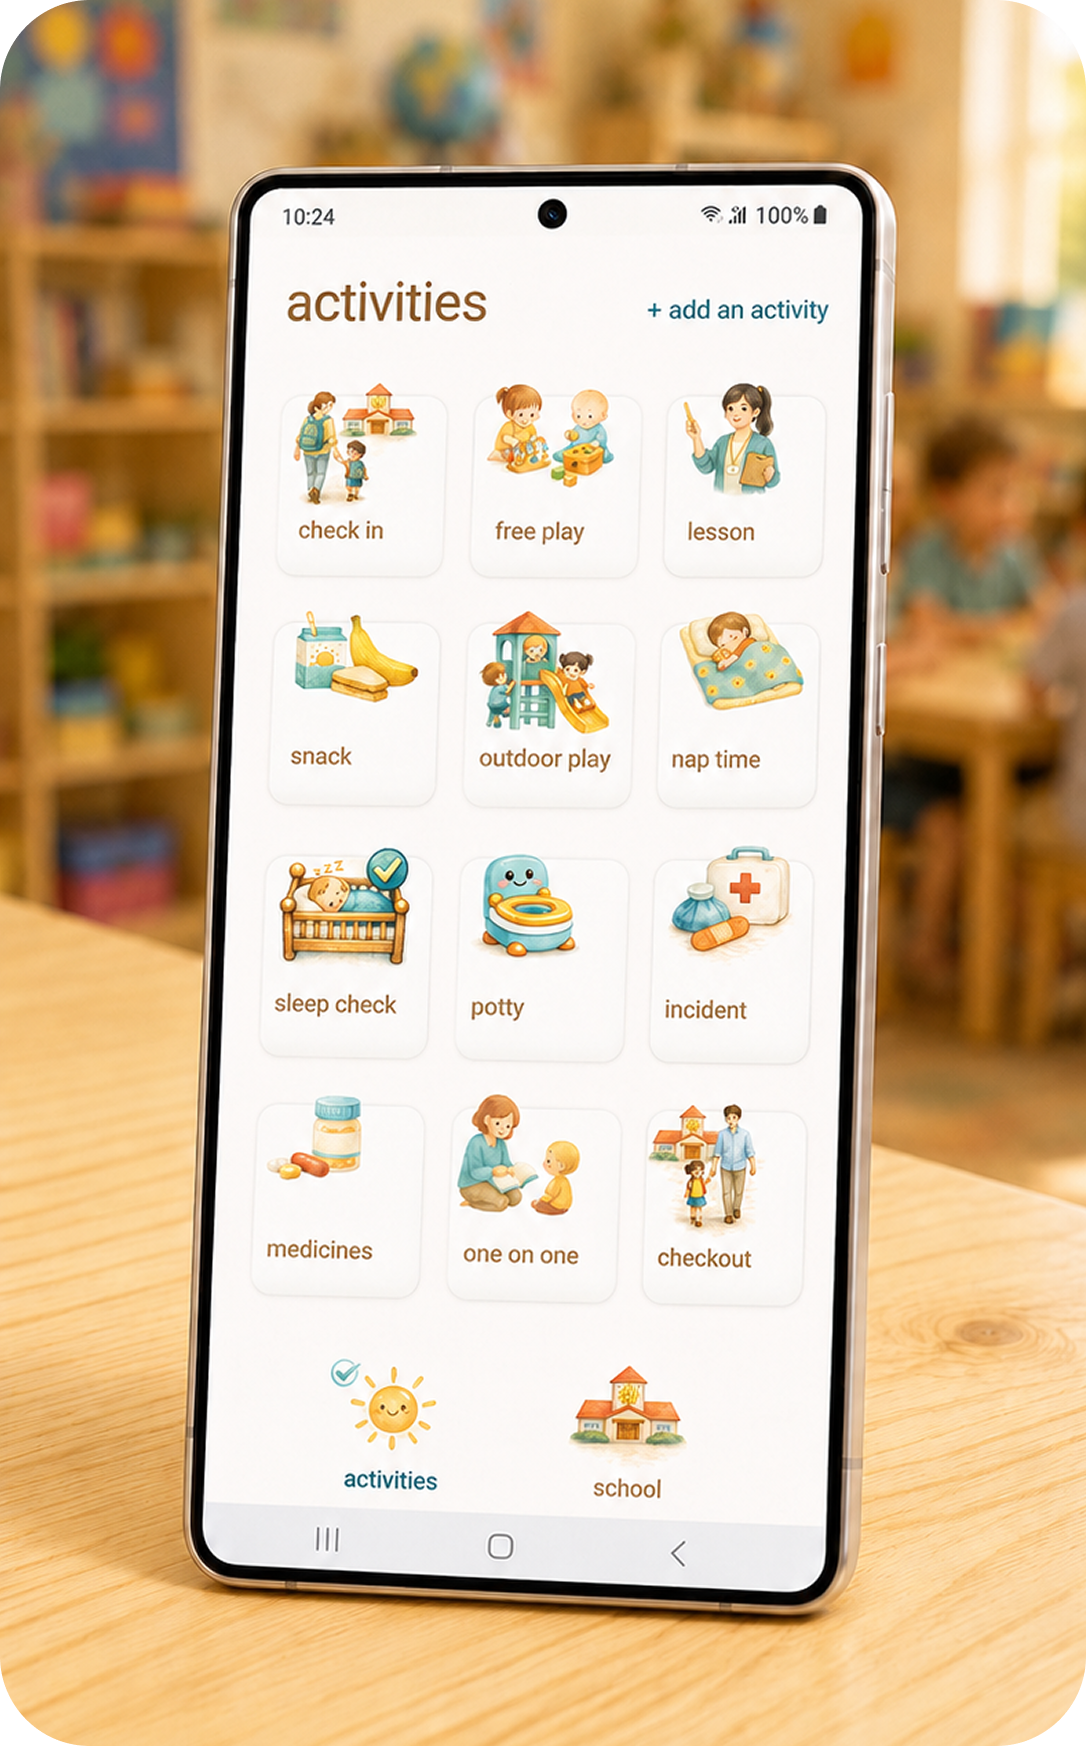
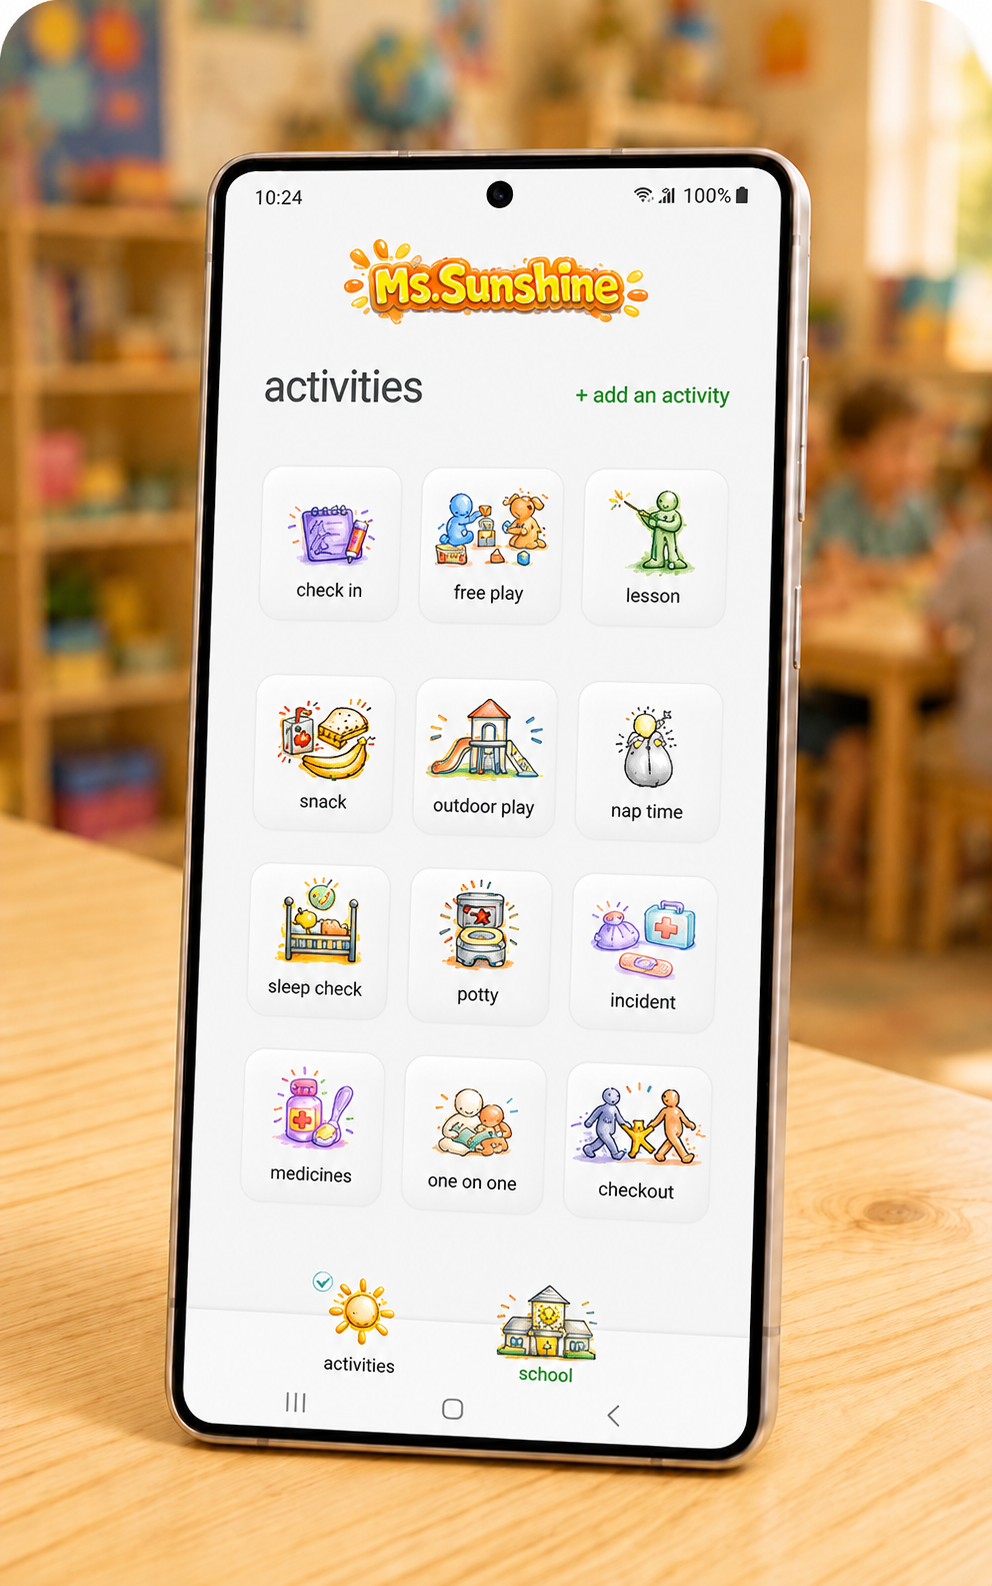
update MsSunshineApp: add carousel title, swap phone images
- Add centered "Initial MVP for UXR" label above ActivityFlowCarousel
- Replace yellow panel phone image with NewHomeScreenV2.png
- Replace Ms. Sunshine App card image with PhoneWithApp_Rollover.png on meta and MsSunshineApp pages

diff --git a/app/work/meta/page.tsx b/app/work/meta/page.tsx
@@ -1,4 +1,5 @@
 import Link from "next/link";
+import phoneWithAppRollover from "@/components/images/Teacher'sApp/PhoneWithApp_Rollover.png";
 import Image from "next/image";
 import NextCaseStudyTicker from "@/components/ui/next-case-study-ticker";
 import logo from "@/components/images/Logo.png";
@@ -395,12 +396,12 @@ export default function MetaPage() {
           {/* Solo */}
           <Link href="/work/MsSunshineApp" className="group flex w-full max-w-[437px] lg:w-[437px] flex-col gap-4 lg:gap-[27px] items-start">
             <div className="aspect-[437/666] w-full lg:h-[666px] lg:w-[438px] relative rounded-[30px] lg:shrink-0 overflow-hidden">
-              {/* eslint-disable-next-line @next/next/no-img-element */}
-              <img
-                alt=""
-                src="/images/next-case-studies/solo-phone.png"
-                className="absolute max-w-none pointer-events-none"
-                style={{ height: "113.36%", left: "-0.03%", top: "-6.61%", width: "129.28%" }}
+              <Image
+                src={phoneWithAppRollover}
+                alt="Ms. Sunshine App case study preview"
+                fill
+                className="object-cover transition-transform duration-500 ease-out group-hover:scale-[1.03]"
+                sizes="(max-width: 1024px) 100vw, 437px"
               />
             </div>
             <p className="font-serif text-[clamp(36px,9vw,64px)] lg:text-[64px] leading-[1.1] lg:leading-[72px] text-white tracking-[-0.64px] whitespace-nowrap">

diff --git a/app/work/MsSunshineApp/page.tsx b/app/work/MsSunshineApp/page.tsx
@@ -8,7 +8,7 @@ import daySchedule from "@/components/images/Teacher'sApp/DaySchedule.png";
 
 import competitiveAnalysisCover from "@/components/images/Teacher'sApp/CompetitiveAnalysisCover.png";
 import middleCopyVideoBg from "@/components/images/Teacher'sApp/AppFlow/MiddleCopyVideoBg.png";
-import home from "@/components/images/Teacher'sApp/AppFlow/Home.png";
+import home from "@/components/images/Teacher'sApp/NewHomeScreenV2.png";
 import backgroundHandYellow from "@/components/images/Teacher'sApp/AppFlow/BackgroundhandYellow.png";
 import qrCode from "@/components/images/Teacher'sApp/QR_Code.png";
 import activityFlow1 from "@/components/images/Teacher'sApp/AppFlow/ActivityFlow1.png";
@@ -199,6 +199,7 @@ export default function SoloPage() {
 
       {/* ActivityFlow carousel */}
       <section className="w-full pb-24 lg:pb-[200px] pt-7 lg:pt-[28px]">
+        <p className="text-[18px] font-light leading-none px-5 lg:px-[24px] mb-[3px] text-center">Initial MVP for UXR</p>
         <ActivityFlowCarousel items={activityFlowItems} />
       </section>
 
